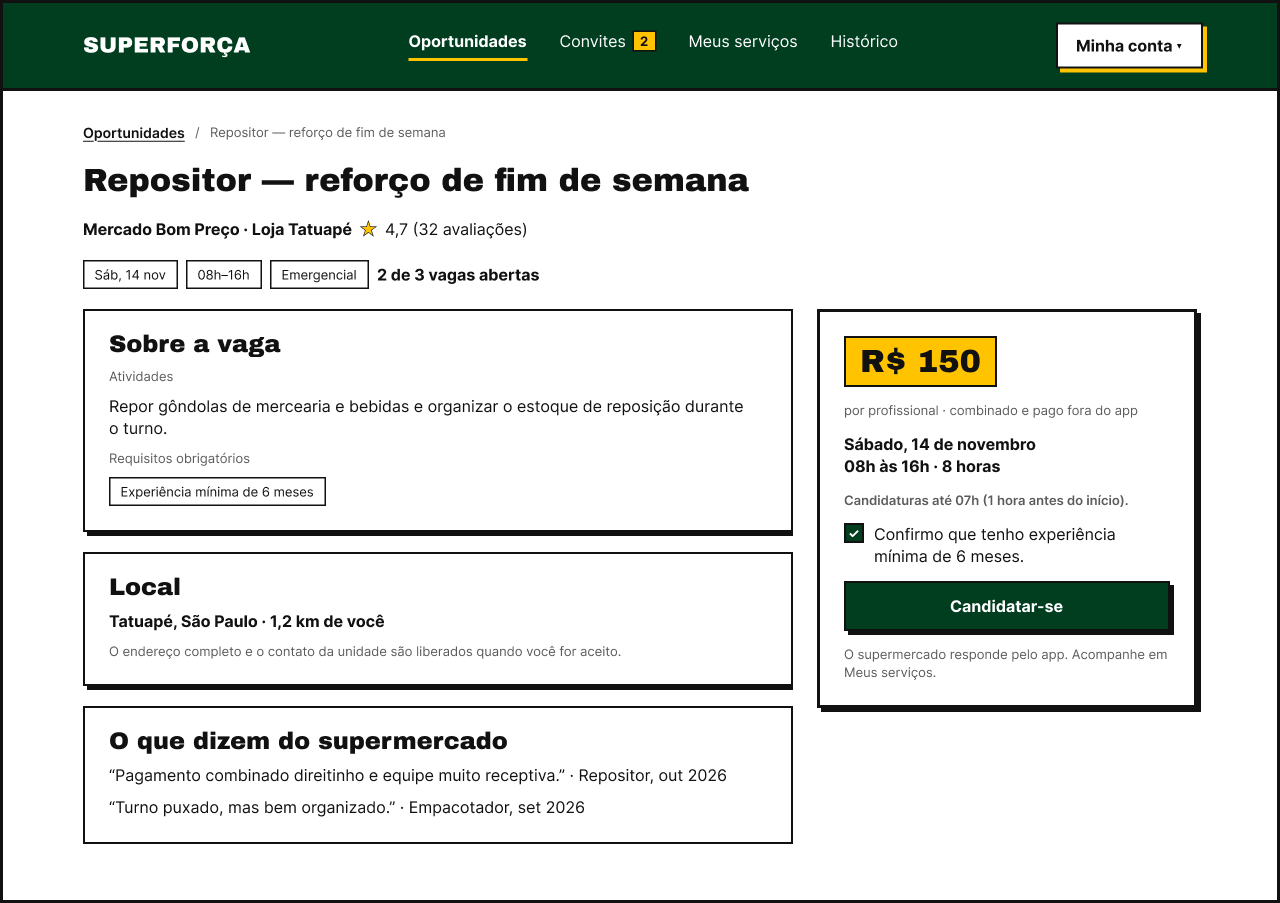
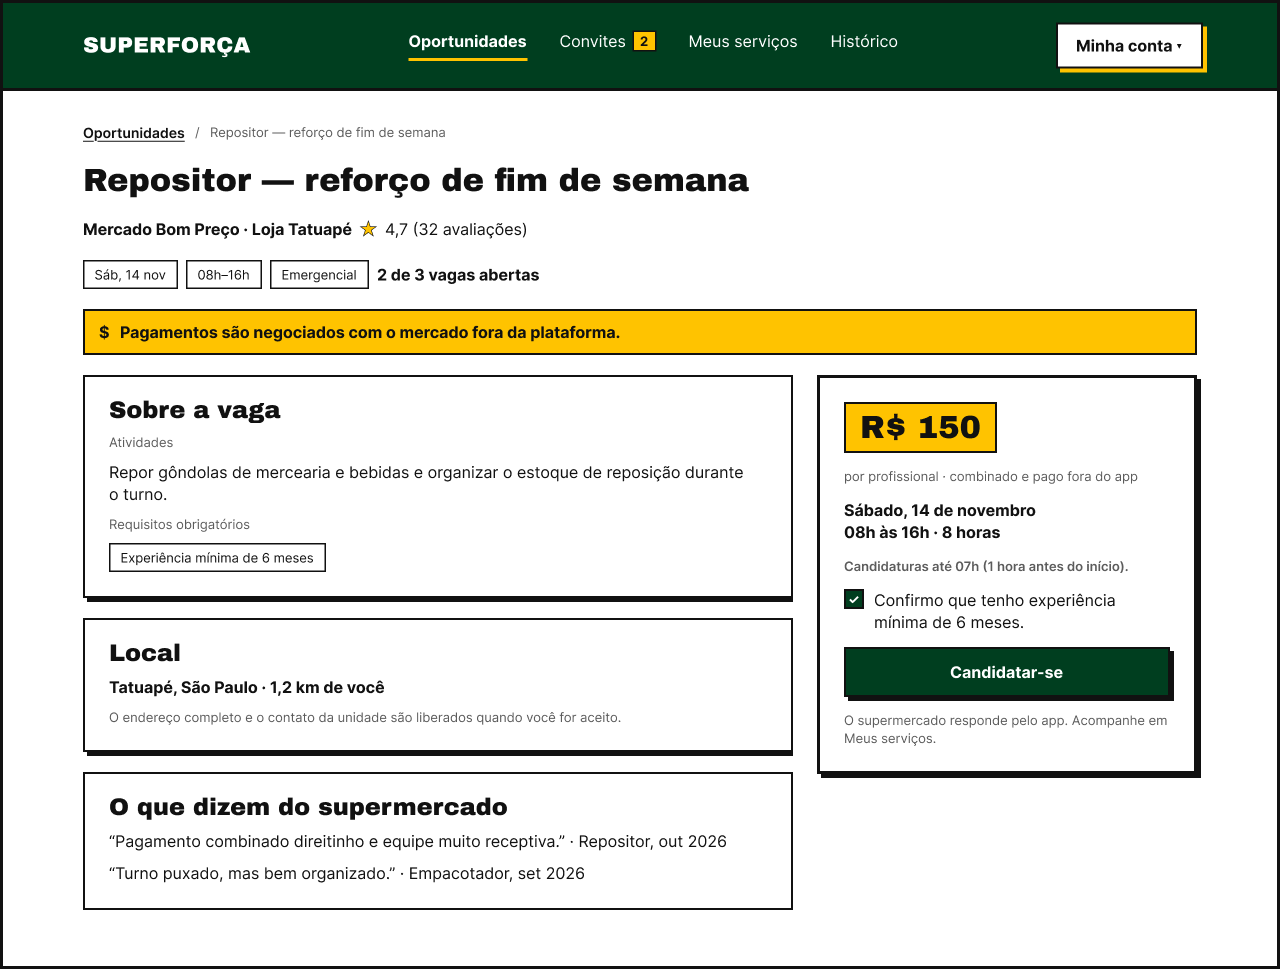
docs(ui): atualiza TR-04 com aviso de pagamento e adiciona modal de contratação

diff --git a/ui-design/07-encontrar-vagas/index.md b/ui-design/07-encontrar-vagas/index.md
@@ -19,7 +19,10 @@ sequenceDiagram
     Vagas-->>UI: Retorna resultados (comportamento esperado)
     UI-->>Profissional: Exibe resultados ou estado vazio
     Profissional->>UI: Abre detalhes (TR-04)
-    Profissional->>UI: Envia candidatura
+    UI-->>Profissional: Exibe aviso de pagamento fora da plataforma
+    Profissional->>UI: Confirma requisito e clica em Candidatar-se
+    UI-->>Profissional: Explica como funciona a contratação (modal)
+    Profissional->>UI: Marca a leitura e clica em Aceitar e candidatar-se
     UI-->>Profissional: Confirma candidatura (feedback em Toasts)
 ```
 
@@ -31,6 +34,7 @@ sequenceDiagram
 | `35:1322`, `54:1852`, `54:2037`, `54:2227`, `128:4352` | TR-03 — Filtros de função, data, horário, valor mínimo e distância |
 | `128:4423`, `128:4551`, `128:4679`, `128:4807`, `128:4935` | TR-02 — Resultados com cada filtro aplicado |
 | `35:1420` | TR-04 — Detalhes e candidatura |
+| `284:6934` | TR-04 — Como funciona a contratação (modal) |
 | `132:4716` | TR-02 — Candidatura confirmada (seção de feedback) |
 
 ## Siglas e comportamentos
@@ -40,6 +44,16 @@ sequenceDiagram
 - O pré-projeto prevê busca ampliada sem ocultar requisitos obrigatórios; o
   protótipo não documenta de forma suficiente a regra de compatibilidade e
   elegibilidade. Confirmar esse comportamento antes da implementação.
+- **Aviso de pagamento e modal de contratação:** TR-04 exibe, acima das
+  colunas, a faixa amarela "Pagamentos são negociados com o mercado fora da
+  plataforma.". Ao clicar em **Candidatar-se**, o modal "Antes de se
+  candidatar" explica que o SuperForça conecta o profissional ao supermercado,
+  mas não é o empregador; que o supermercado formaliza o serviço, por exemplo
+  com contrato de trabalho intermitente (CLT); que o valor é combinado e pago
+  pelo supermercado, fora do app; e que o profissional decide a quais vagas se
+  candidatar. O modal tem a confirmação "Li e entendi como funcionam a
+  contratação e o pagamento." e as ações **Voltar** e **Aceitar e
+  candidatar-se**, que leva à candidatura confirmada (`132:4716`).
 - Os dados de vaga publicados pelo supermercado são descritos em
   [publicar e preencher vagas](../03-publicar-preencher-vagas/).
 
